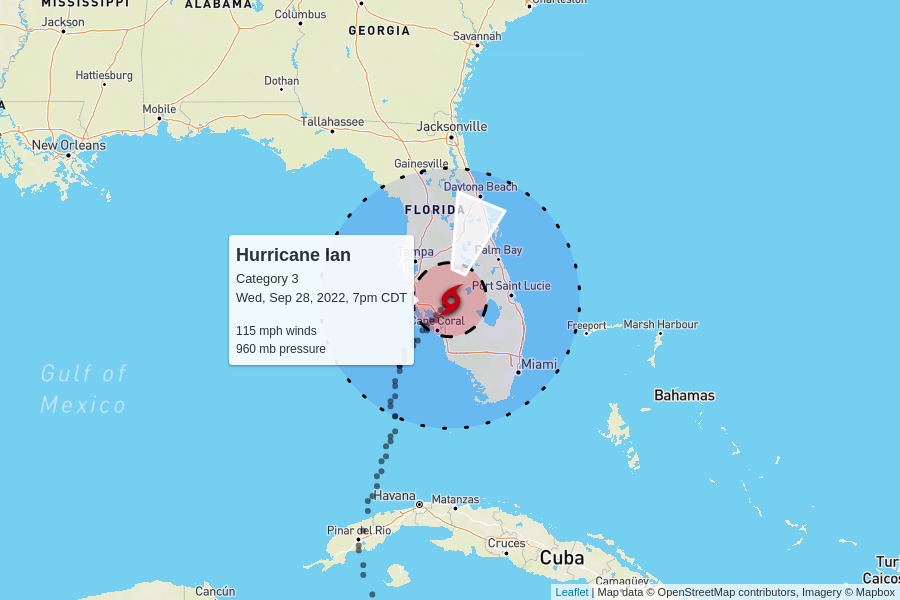
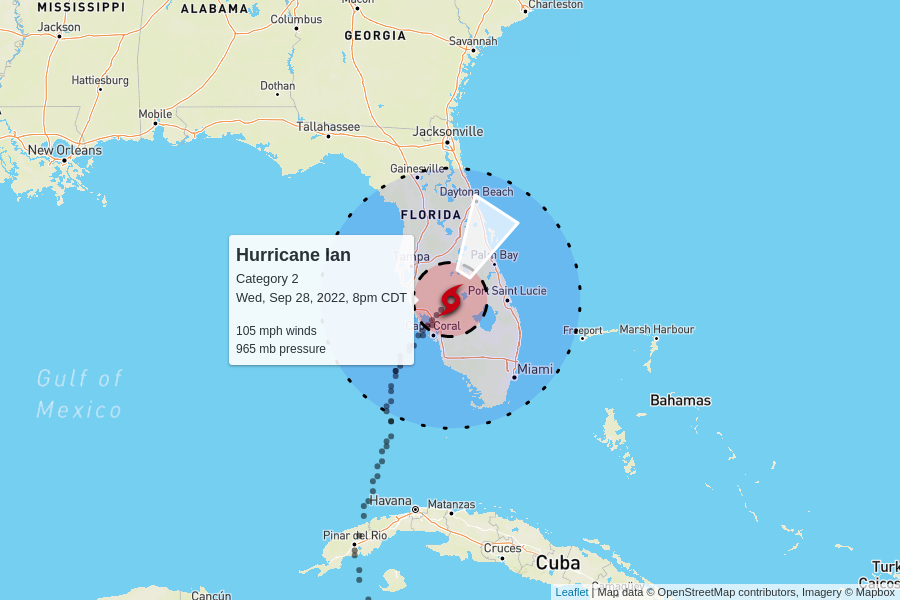
automatic update

diff --git a/docs/index.html b/docs/index.html
@@ -97,10 +97,10 @@
 
     <table>
       <tr>
-        <td colspan="6" class="storm category-3" >
+        <td colspan="6" class="storm category-2" >
           <h2>
-            Hurricane Ian - Category 3
-            <p class="updated">last updated <span data-time>2022-09-29T00:00:00.000Z</span></p>
+            Hurricane Ian - Category 2
+            <p class="updated">last updated <span data-time>2022-09-29T01:00:00.000Z</span></p>
           </h2>
         </td>
       </tr>
@@ -115,12 +115,12 @@
       </tr>
       <tr>
         <td class="spacer"></td>
-        <td>115 mph</td>
-        <td>960 mb</td>
+        <td>105 mph</td>
+        <td>965 mb</td>
         <td>
           8 mph to the north-northeast
           <br/>
-          <span style="display: inline-block; font-size: 1.5em; transform: rotate(20deg);">↑</span>
+          <span style="display: inline-block; font-size: 1.5em; transform: rotate(30deg);">↑</span>
         </td>
         <td><a href="https://raw.githubusercontent.com/mgwalker/atlantic-hurricanes/main/data/csv/AL092022.csv">AL092022.csv</a></td>
         <td><a href="https://www.nhc.noaa.gov/archive/2022/IAN.shtml?">NHC advisories</a></td>
